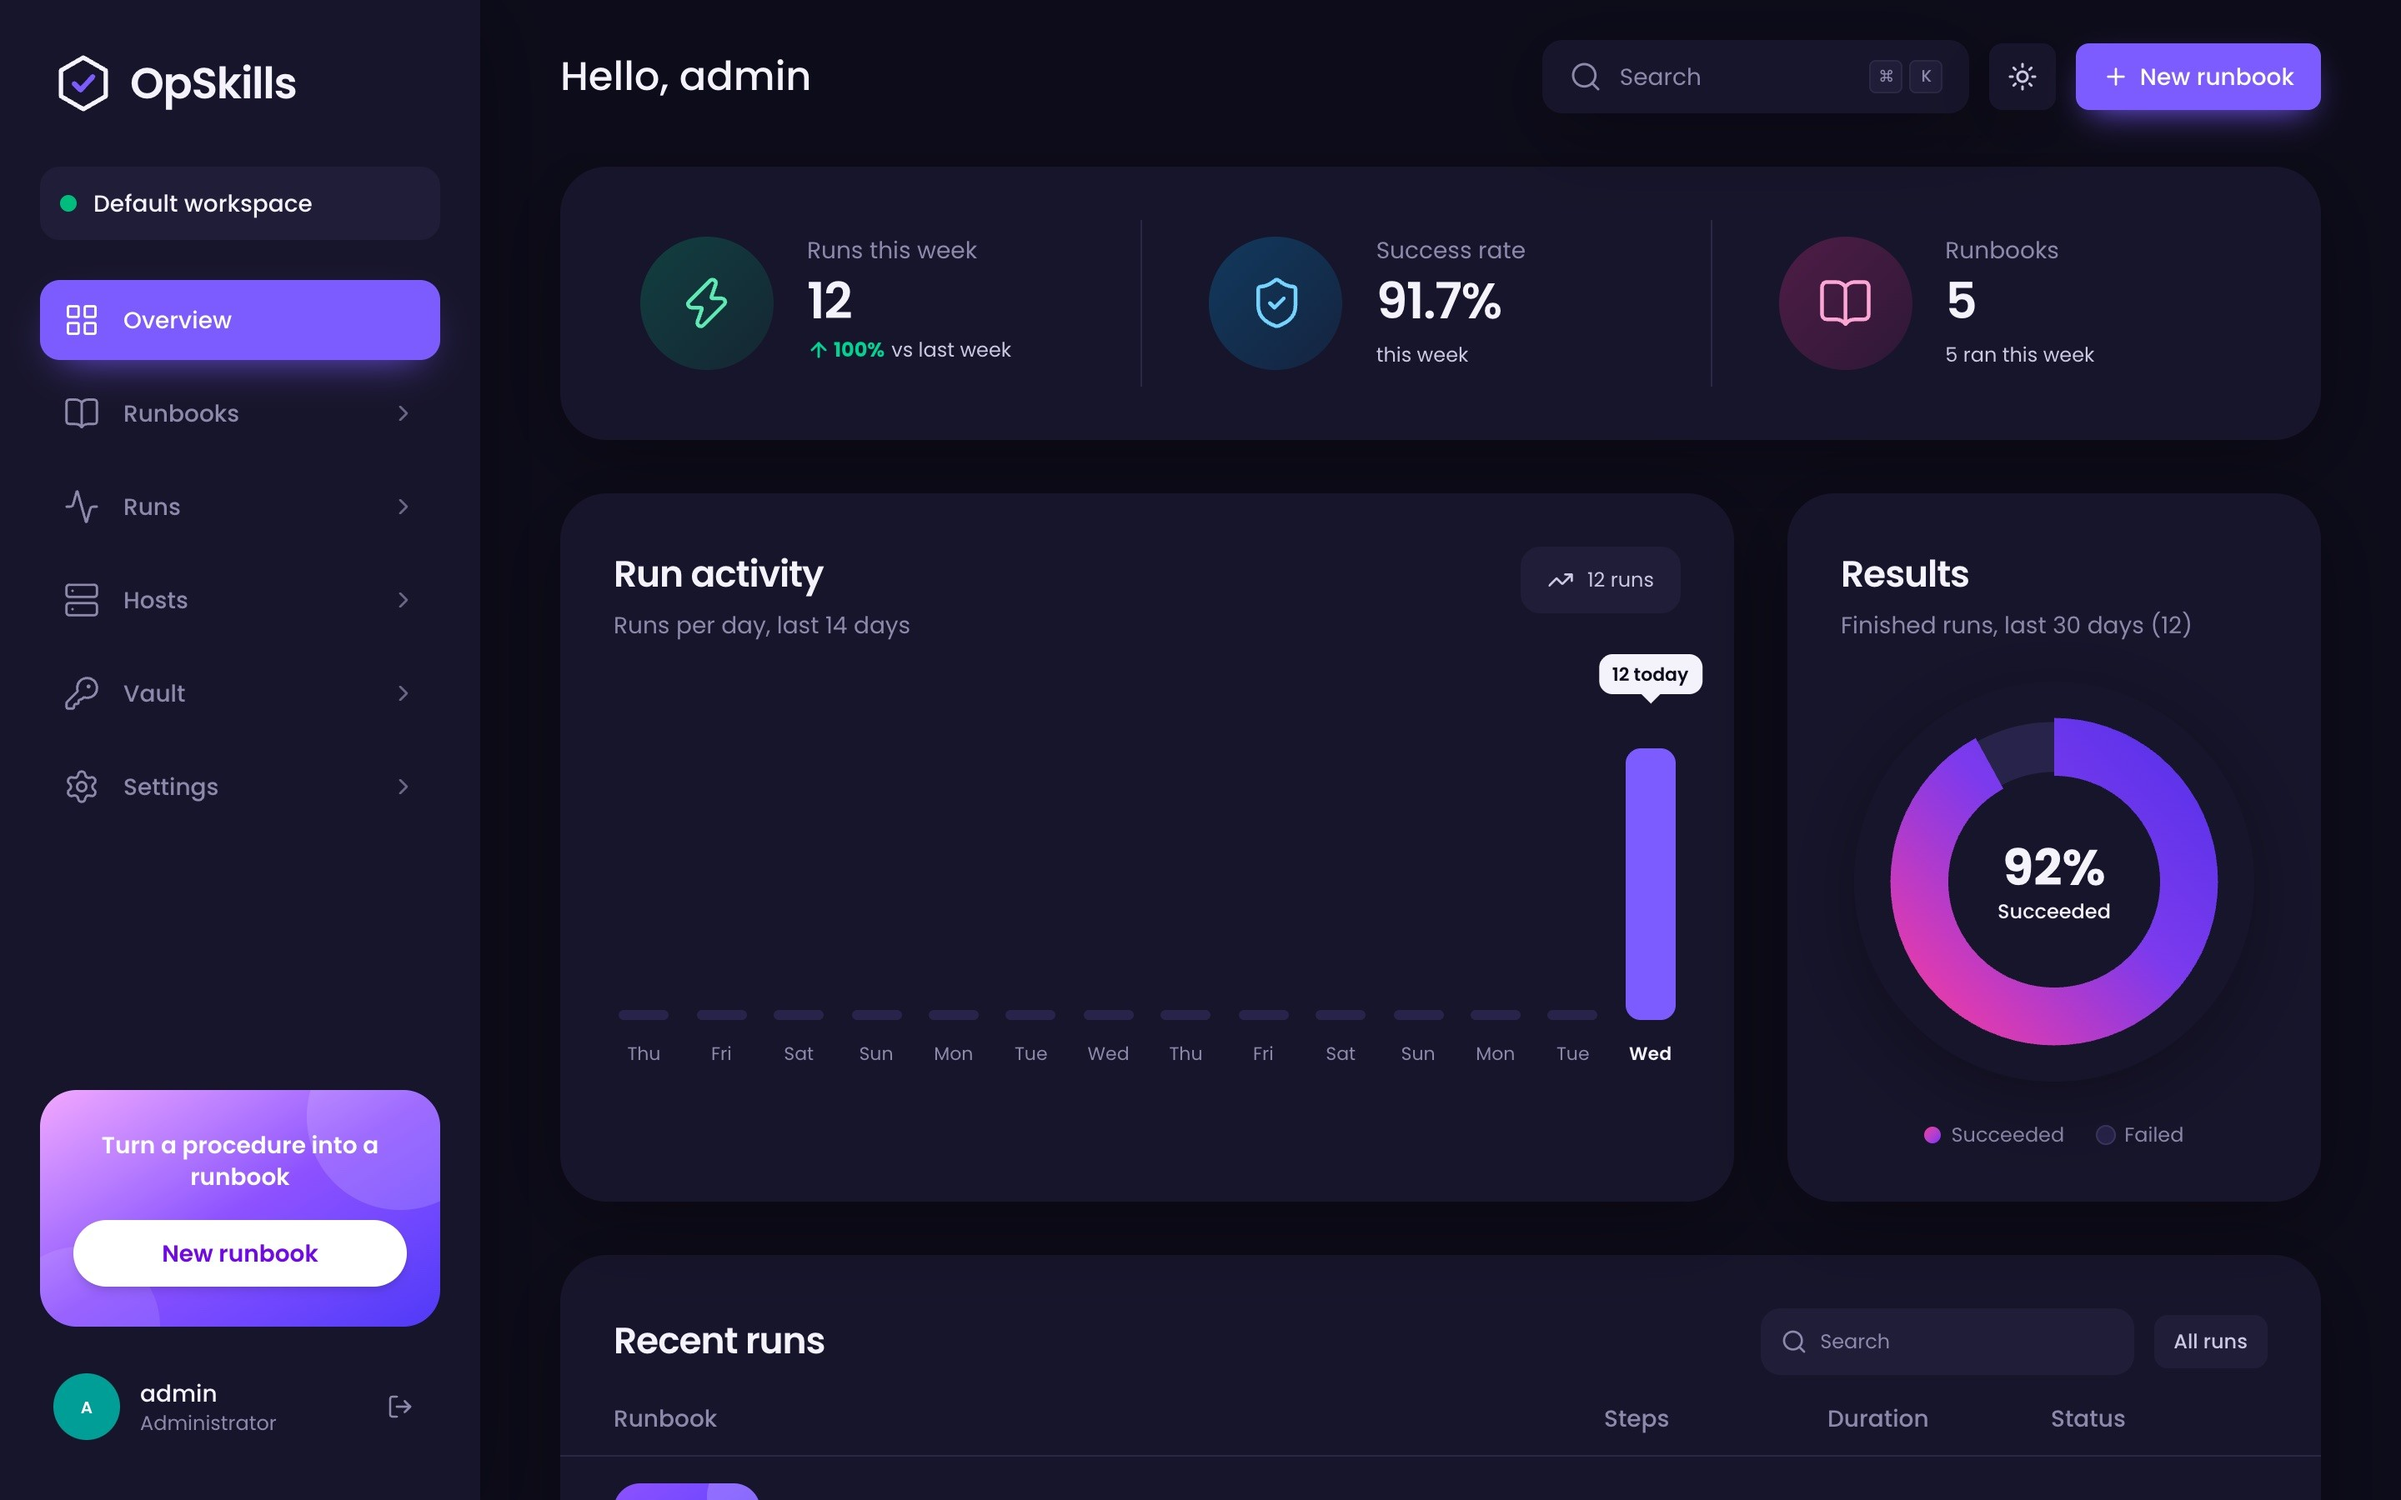
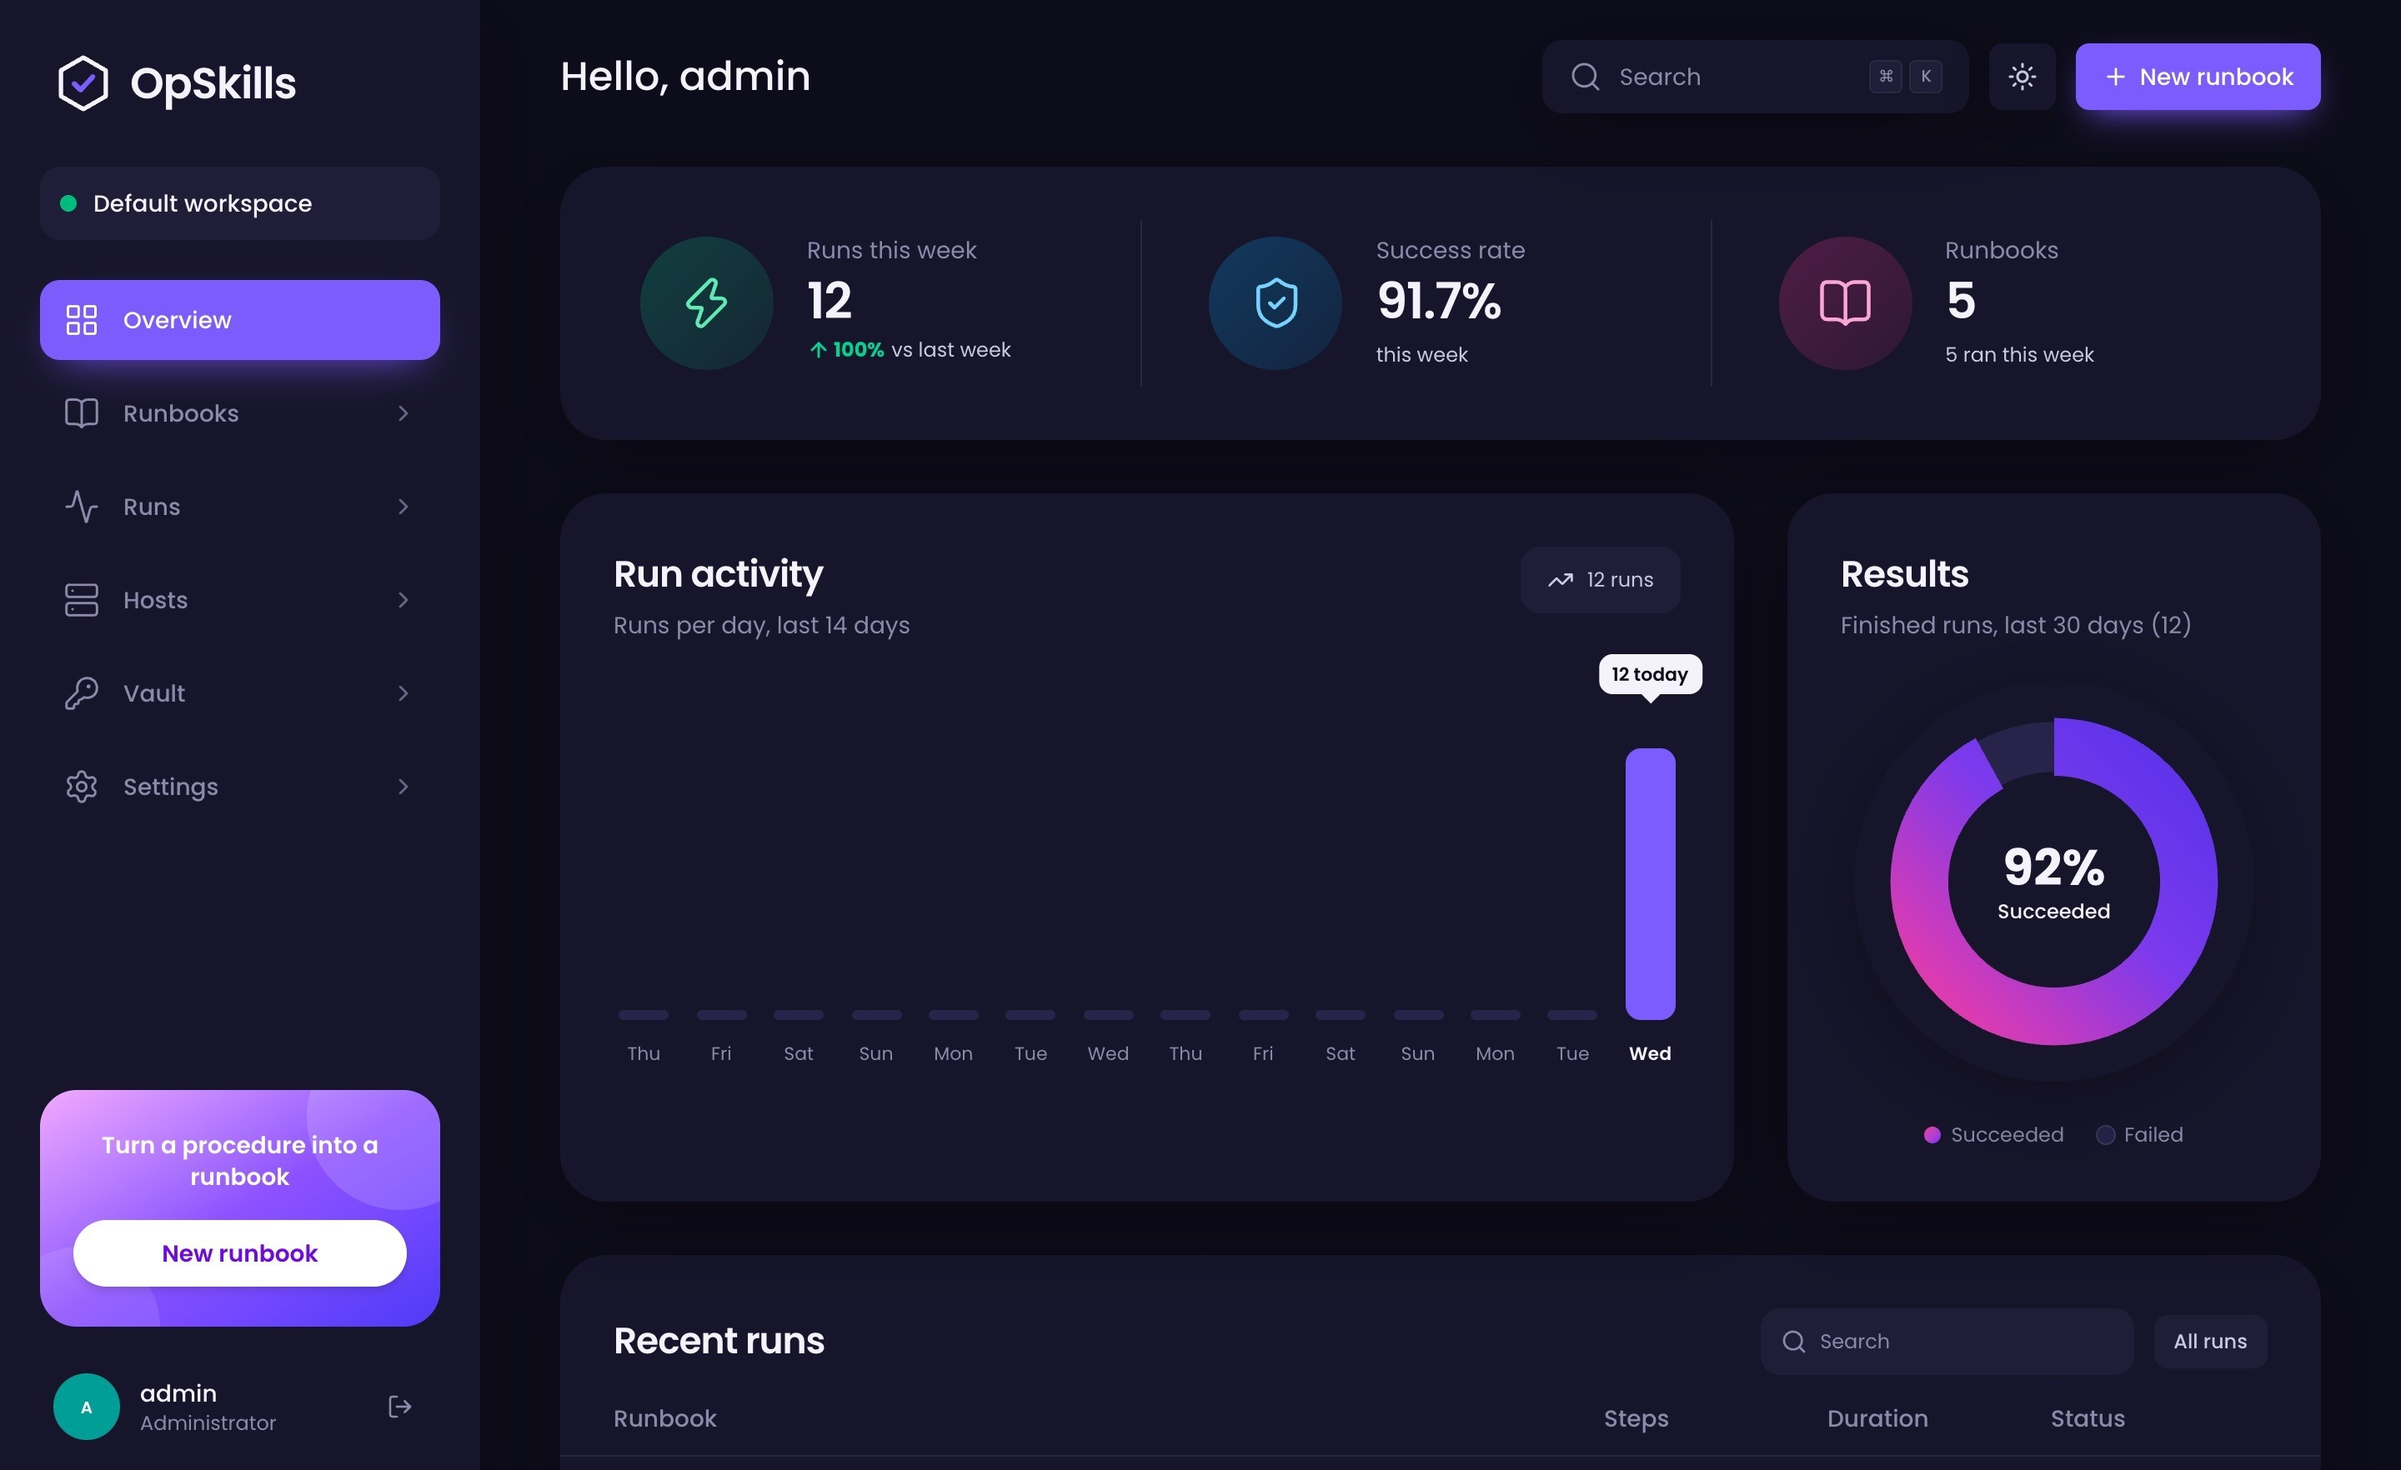
Website: tidy the bottom of the hero screenshot (#12)
The hero screenshots ended a few pixels into the first Recent runs row,
leaving a stray purple fragment, and the "Rolling restart" card covered
the admin row and the Runbook column header. Both screenshots now end
just below the table header (2880x1764), and the card sits lower so it
only overlaps empty space at the edge.

site.yml now always deploys web/ from main, whatever started it, so a
site fix merged while a release is building is deployed by that release.

diff --git a/web/public/index.html b/web/public/index.html
@@ -162,7 +162,7 @@
     .float b { display: block; font-size: 14px; }
     .float small { color: var(--muted); }
     @media (min-width: 1000px) { .float { display: flex; } }
-    .float.left { left: -40px; bottom: -32px; }
+    .float.left { left: -40px; bottom: -60px; }
     .float.right { right: -40px; top: -30px; }
     .badge {
       display: inline-flex; align-items: center; justify-content: center; padding: 3px 10px; border-radius: 5px;
@@ -361,8 +361,8 @@
         </div>
         <div class="frame">
           <div class="bar" aria-hidden="true"><i></i><i></i><i></i></div>
-          <img class="theme-light" src="app-light.jpg" width="2880" height="1800" alt="The OpSkills overview: runs this week, success rate, runbooks, a daily run chart, results and recent runs">
-          <img class="theme-dark" src="app-dark.jpg" width="2880" height="1800" alt="The OpSkills overview in dark mode" loading="lazy">
+          <img class="theme-light" src="app-light.jpg" width="2880" height="1764" alt="The OpSkills overview: runs this week, success rate, runbooks, a daily run chart, results and recent runs">
+          <img class="theme-dark" src="app-dark.jpg" width="2880" height="1764" alt="The OpSkills overview in dark mode" loading="lazy">
         </div>
       </div>
     </div>

diff --git a/RELEASING.md b/RELEASING.md
@@ -11,7 +11,7 @@ built or uploaded from a laptop.
 | [`docker.yml`](.github/workflows/docker.yml) | Pull requests, merges to `main`, version tags | Builds and tests the image for `linux/amd64` and `linux/arm64`. Merges publish `opskills/opskills:edge`; a tag `v1.2.3` publishes `1.2.3`, `1.2` and `latest` |
 | [`tag.yml`](.github/workflows/tag.yml) | Merges to `main` that change `server/Cargo.toml` or `docs/releases/` | If the version in `server/Cargo.toml` has no tag yet and `docs/releases/vX.Y.Z.md` exists, tags the merge commit `vX.Y.Z` and starts `release.yml` and `docker.yml` on it |
 | [`release.yml`](.github/workflows/release.yml) | Version tags; pull requests that change packaging | Builds the server and agent packages and checks their versions and architectures (read only). For tags, a separate job attests their build provenance, writes `SHA256SUMS` and publishes the GitHub release, then `site.yml` runs. Pull requests only build and check |
-| [`site.yml`](.github/workflows/site.yml) | After a release, merges to `main` that change `web/`, or by hand | Deploys `web/` to Cloudflare and checks the live page. It skips the deploy while the site links to a release that doesn't exist yet |
+| [`site.yml`](.github/workflows/site.yml) | After a release, merges to `main` that change `web/`, or by hand | Deploys `web/` as it is on `main` to Cloudflare and checks the live page. It skips the deploy while the site links to a release that doesn't exist yet |
 
 ## Cutting a release
 
